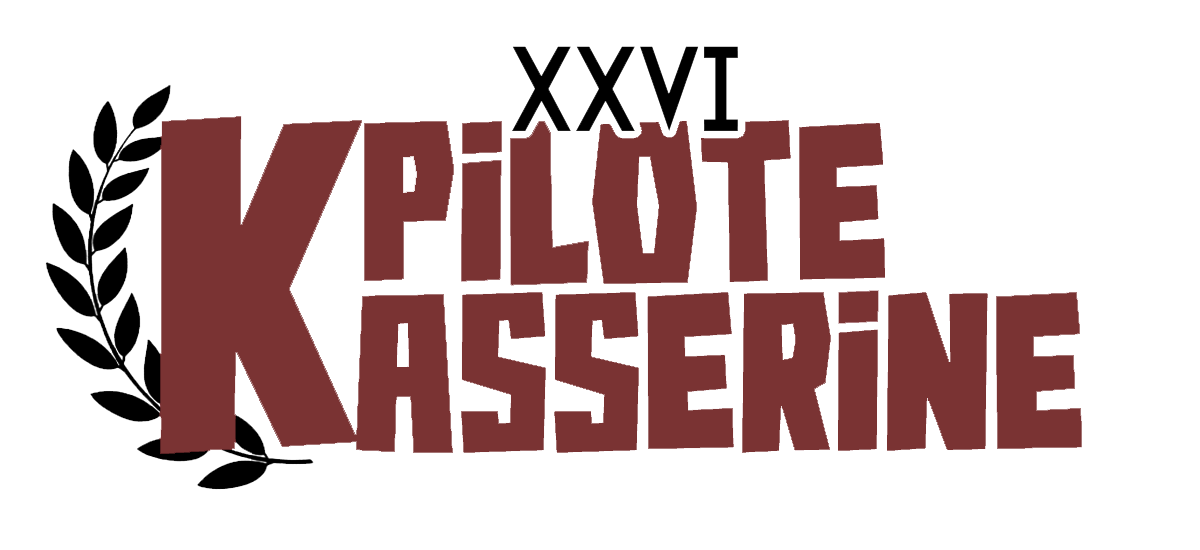
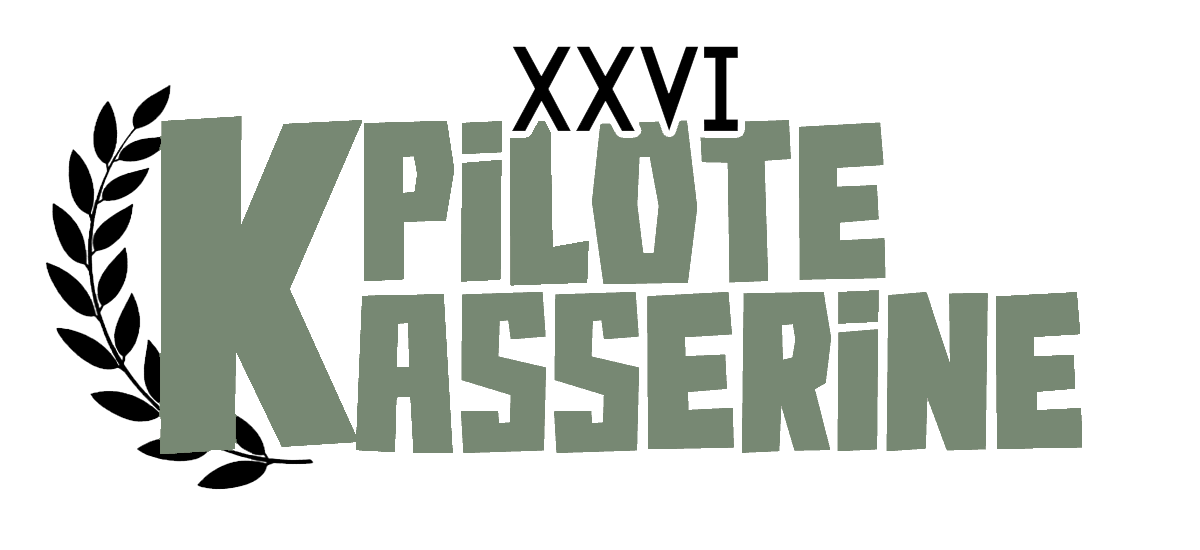
ge

Changed region(s): [[0.1233, 0.2164, 0.925, 0.8345]]

diff --git a/index.html b/index.html
@@ -220,7 +220,7 @@
       /* align to the right edge */
       width: 300px;
       height: 100vh;
-      background: rgba(255, 255, 255, 0.95);
+      background: #fffffff2;
       color: #000;
       transform: translateX(100%);
       /* fully off-screen to the right */
@@ -284,7 +284,7 @@
       justify-content: center;
       gap: 20px;
       overflow: hidden;
-      background: #fff;
+      background: #F1F3E0;
       color: #000;
     }
 
@@ -319,7 +319,7 @@
       flex-direction: column;
       justify-content: center;
       text-align: center;
-      background: #EDE8D0;
+      background: #D2DCB6;
     }
 
     /* === SECTION CONTAINER === */
@@ -405,7 +405,7 @@
       align-items: center;
       font-weight: bold;
       font-size: 1.2rem;
-      color: #EDE8D0;
+      color: #D2DCB6;
       cursor: pointer;
       transition: transform 0.2s ease;
       opacity: 1;
@@ -433,7 +433,7 @@
       transition: transform 0.2s ease;
       font-family: 'casagrande';
       font-size: 1.5rem;
-      color: #EDE8D0;
+      color: #D2DCB6;
 
     }
 
@@ -463,7 +463,7 @@
       background-size: cover;
       background-position: center;
       z-index: 1;
-      background-color: #7a3333;
+      background-color: #A1BC98;
     }
 
     .caption {
@@ -497,7 +497,7 @@
       display: flex;
       align-items: center;
       justify-content: center;
-      background-color: #111;
+      background-color: #778873;
     }
 
     /* === YEARBOOK SECTION === */
@@ -506,7 +506,7 @@
       align-items: center;
       justify-content: center;
       overflow: hidden;
-      background-color: #111;
+      background-color: #778873;
       flex: 1;
       overflow-x: auto;
       overflow-y: hidden;
@@ -529,8 +529,8 @@
       order: 2;
       transform: rotate(180deg);
       writing-mode: vertical-rl;
-      color: #fff;
-      background-color: #111;
+      color: #F1F3E0;
+      background-color: #778873;
     }
 
     /* Content layout */
@@ -548,7 +548,7 @@
     .a4-placeholder {
       height: clamp(300px, 60vw, 400px);
       aspect-ratio: 1 / 1.414;
-      background: #222;
+      background: #778873;
       border: 2px dashed #555;
       border-radius: 8px;
     }
@@ -601,7 +601,7 @@
       width: 100%;
       height: 70vh;
       display: flex;
-      background: #EDE8D0;
+      background: #D2DCB6;
       color: #000;
       overflow: hidden;
       margin: 0;
@@ -635,7 +635,7 @@
       display: flex;
       justify-content: center;
       align-items: center;
-      background: #7a3333;
+      background: #A1BC98;
       color: #000;
       overflow: hidden;
       position: relative;
@@ -659,8 +659,8 @@
       justify-content: center;
       align-items: center;
       height: 100%;
-      background-color: #7a3333;
-      color: #EDE8D0;
+      background-color: #A1BC98;
+      color: #D2DCB6;
     }
 
     .s4-slider-wrapper {
@@ -690,7 +690,7 @@
       width: 100%;
       height: 100%;
       color: #000;
-      background-color: #7a3333;
+      background-color: #A1BC98;
     }
 
     .album-art {
@@ -746,13 +746,13 @@
     }
 
     .youtube-btn {
-      background: #EDE8D0;
-      color: #7a3333;
+      background: #D2DCB6;
+      color: #A1BC98;
     }
 
     .lyrics-btn {
       background: #111;
-      color: #EDE8D0;
+      color: #D2DCB6;
       font-family: 'cherrydance';
     }
 
@@ -1063,11 +1063,11 @@
 
               <svg width="80" height="80" viewBox="0 0 80 80">
                 <!-- Outer circle -->
-                <circle cx="40" cy="40" r="38" stroke="#EDE8D0" stroke-width="2" fill="transparent" />
+                <circle cx="40" cy="40" r="38" stroke="#D2DCB6" stroke-width="2" fill="transparent" />
 
                 <!-- Plus sign -->
-                <line x1="40" y1="20" x2="40" y2="60" stroke="#EDE8D0" stroke-width="12" />
-                <line x1="20" y1="40" x2="60" y2="40" stroke="#EDE8D0" stroke-width="12" />
+                <line x1="40" y1="20" x2="40" y2="60" stroke="#D2DCB6" stroke-width="12" />
+                <line x1="20" y1="40" x2="60" y2="40" stroke="#D2DCB6" stroke-width="12" />
               </svg>
               <br><br>
               See More
